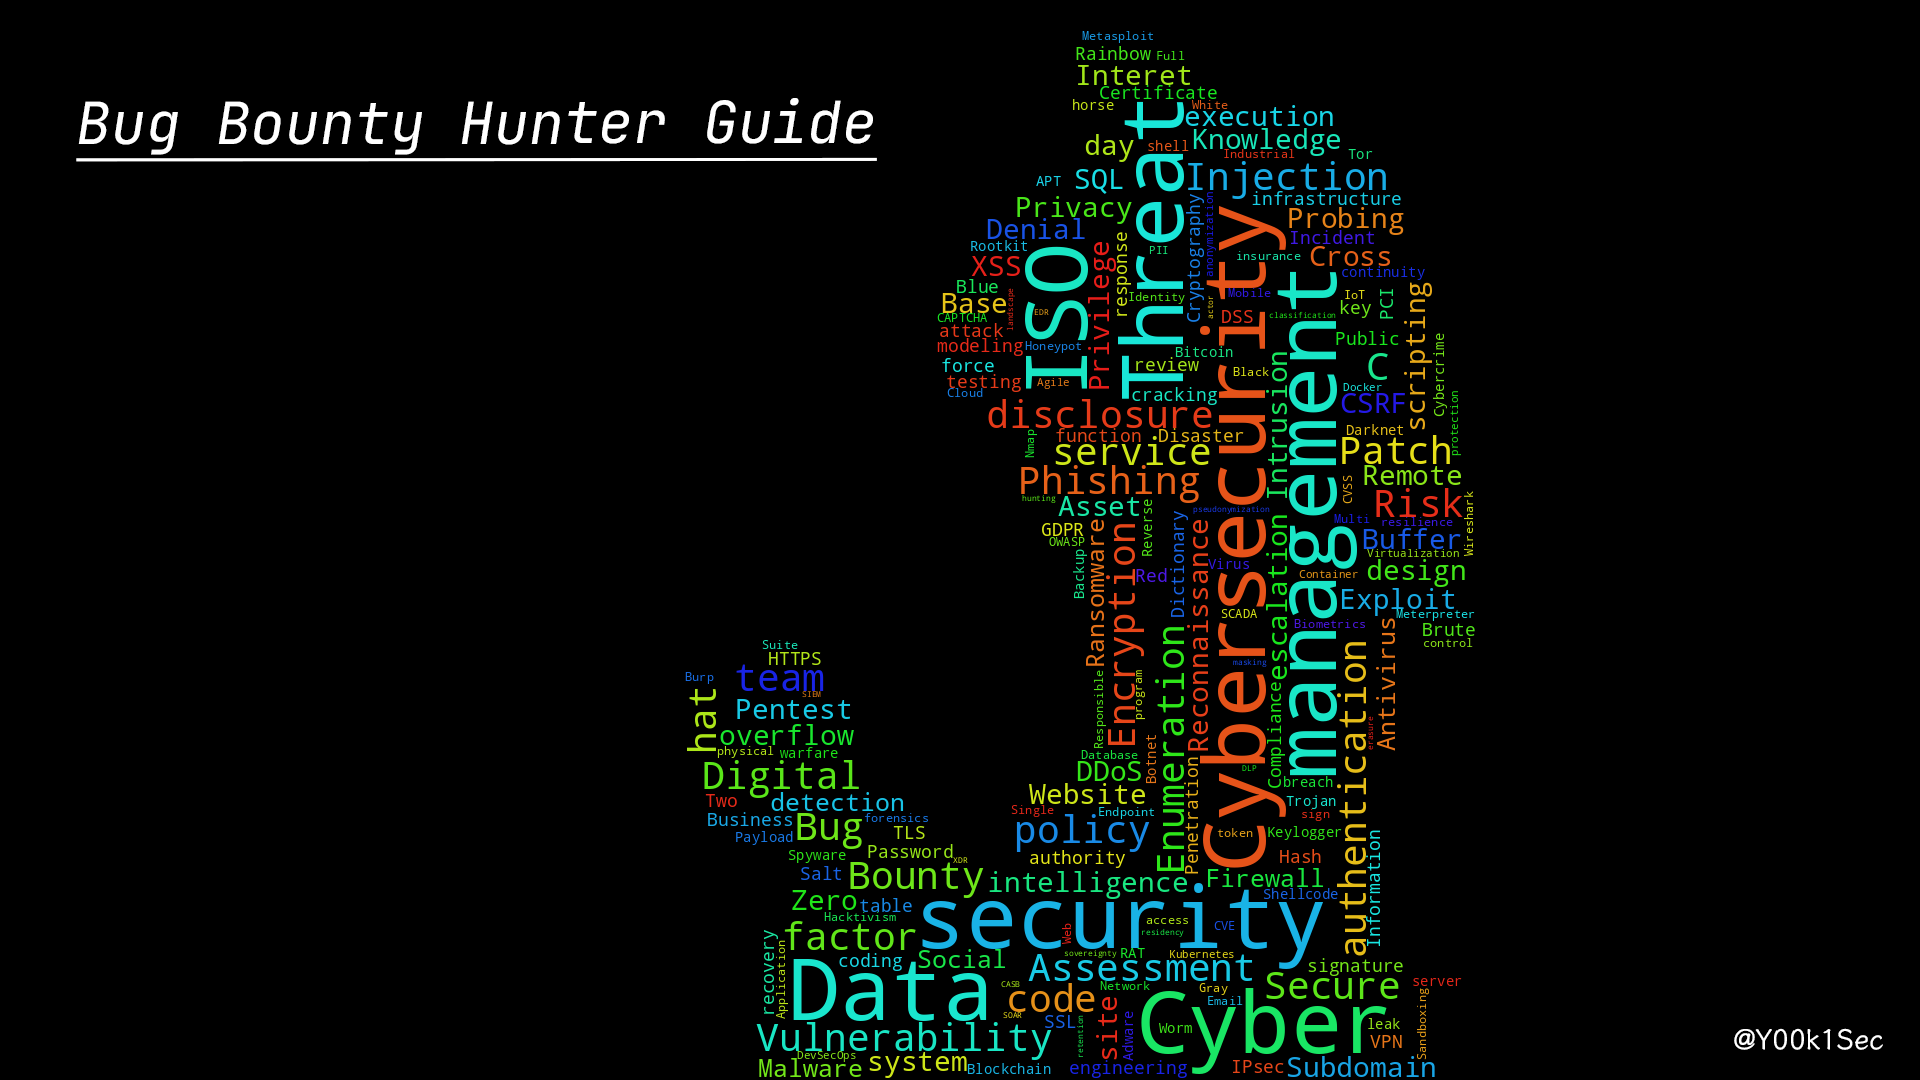
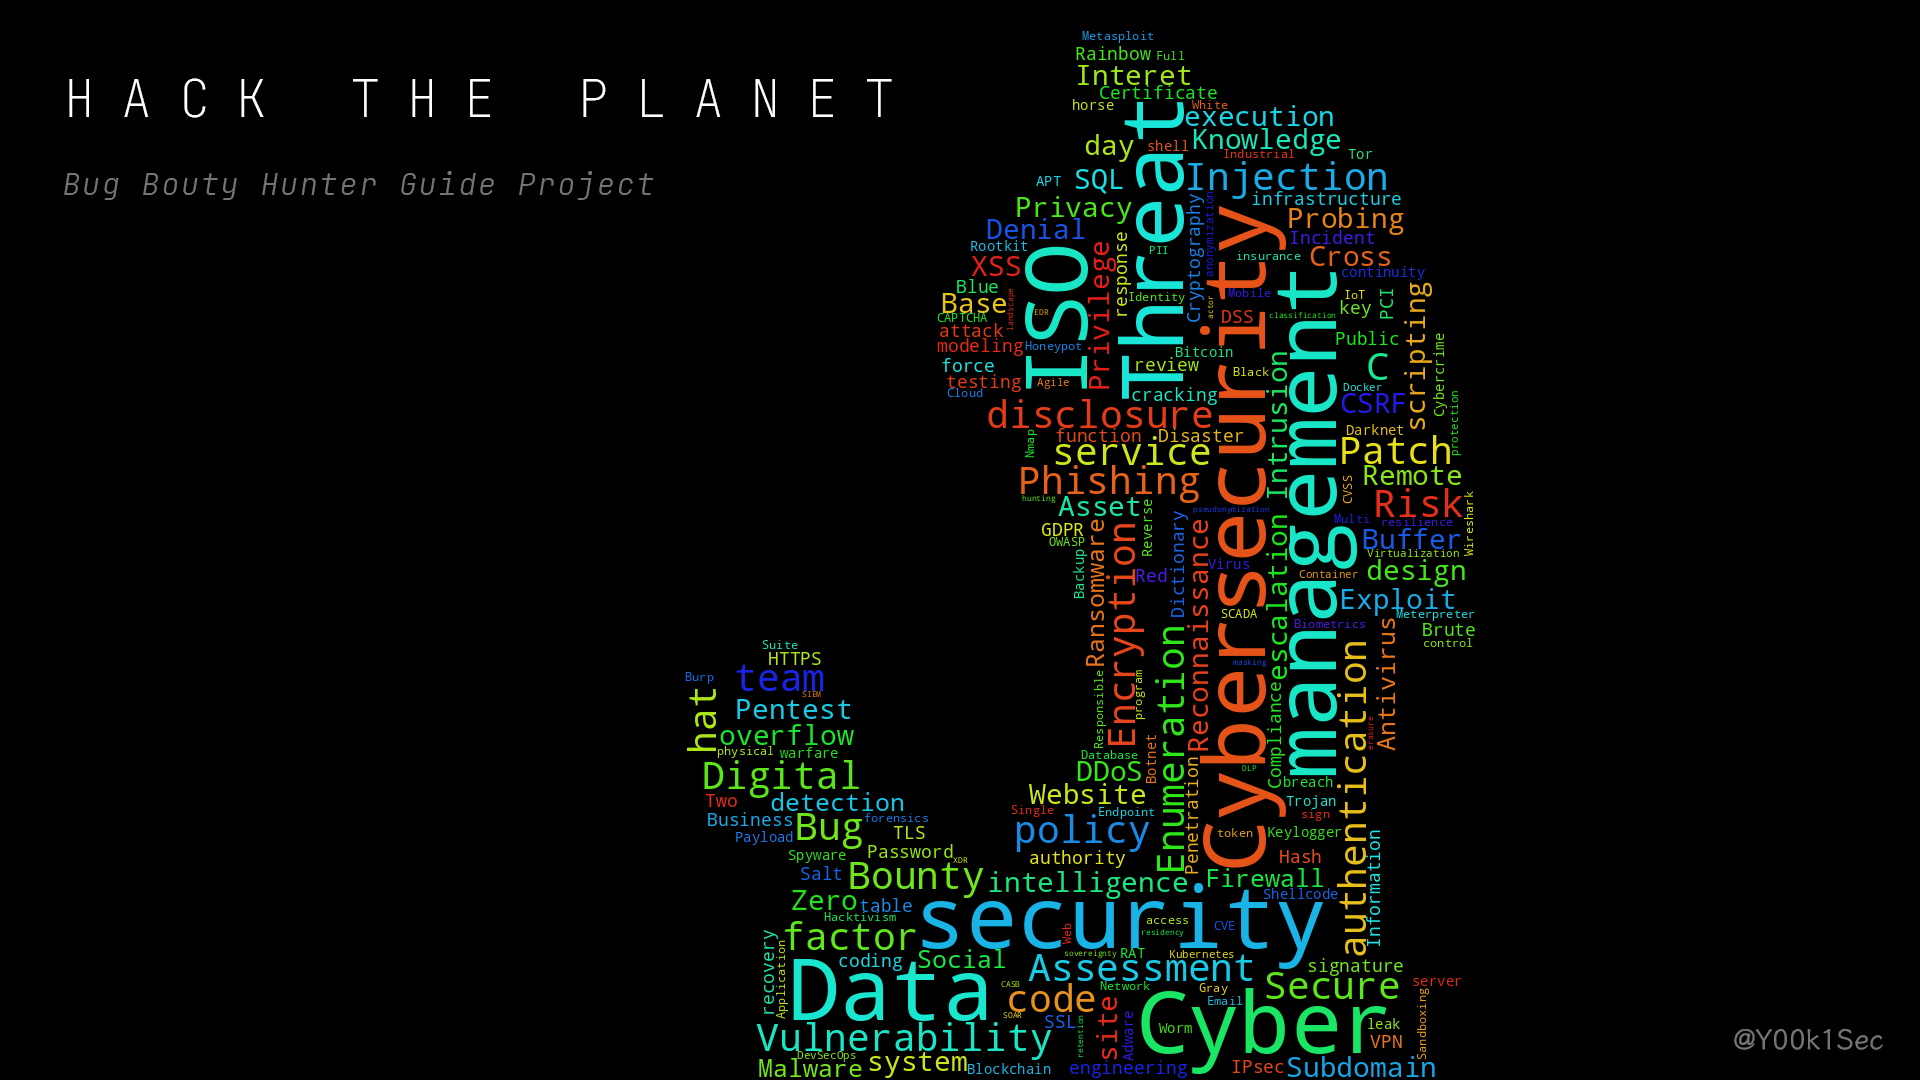
GITBOOK-126: No subject

Changed region(s): [[0.0312, 0.0917, 0.4688, 0.1833], [0.9062, 0.9472, 0.9688, 0.9778]]

diff --git a/README.md b/README.md
@@ -1,15 +1,9 @@
 # Bug Bounty Hunter Guide
 
-<p align=center>
-  <a href="https://bbhg.yuukiz.com"><img src=".gitbook/assets/bug-bounty-hunter-guide-content.png" alt="" width="600px"></a>
-  <br>
-  <a href=#><img alt="Repo category" src=https://img.shields.io/badge/repo_category-practical_guide-orange></a>
-  <a href=#><img alt="GitHub last commit" src="https://img.shields.io/github/last-commit/y00k1sec/bbhg"></a>
-  <a href="https://github.com/y00k1sec/bbhg/blob/main/LICENSE"><img alt="GitHub License" src="https://img.shields.io/github/license/y00k1sec/bbhg"></a>
-  <a href="https://github.com/y00k1sec/bbhg"><img alt="GitHub Repo stars" src="https://img.shields.io/github/stars/y00k1sec/bbhg"></a>
-</p>
+[![](.gitbook/assets/bug-bounty-hunter-guide-content.png)](https://bbhg.yuukiz.com)\
+[![Repo category](https://img.shields.io/badge/repo\_category-practical\_guide-orange)](./) [![GitHub last commit](https://img.shields.io/github/last-commit/y00k1sec/bbhg)](./) [![GitHub License](https://img.shields.io/github/license/y00k1sec/bbhg)](https://github.com/y00k1sec/bbhg/blob/main/LICENSE) [![GitHub Repo stars](https://img.shields.io/github/stars/y00k1sec/bbhg)](https://github.com/y00k1sec/bbhg)
 
----
+***
 
 欢迎来到 "漏洞赏金猎人指南 (Bug Bounty Hunter Guide, BBHG)"，一个服务于漏洞赏金猎人的指南。你可以通过 [https://bbhg.yuukiz.com](https://bbhg.yuukiz.com) 在线访问该指南，也可以从 [GitHub 仓库](https://github.com/y00k1sec/bbhg)中查看指南的源码。
 
@@ -27,4 +21,4 @@
 
 BBHG 由 @Yuuki 用 🧡 制作，采用 [MIT 许可发](https://github.com/y00k1sec/bbhg/blob/main/LICENSE)布。
 
-<figure><img src=".gitbook/assets/wordcloud (1).png" alt=""><figcaption></figcaption></figure>
+<figure><img src=".gitbook/assets/wordcloud.png" alt=""><figcaption></figcaption></figure>
